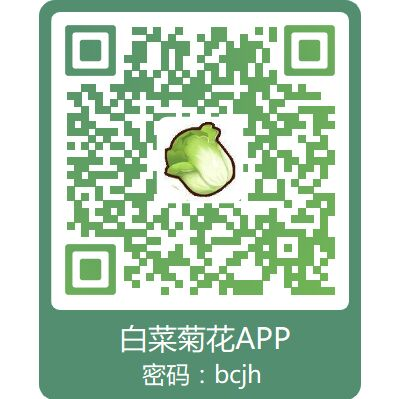
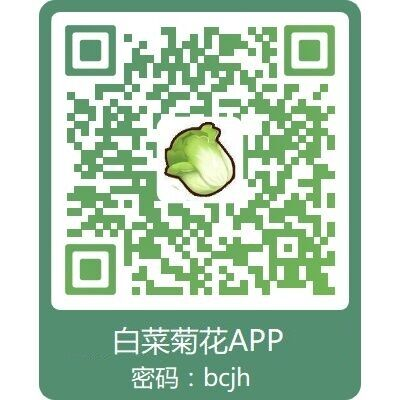
更新白菜菊花网址与二维码，小鱼做好DNS解析了不用再分两个了

diff --git a/messageservice/shortcut.go b/messageservice/shortcut.go
@@ -11,12 +11,12 @@ import (
 func GalleryWebsite(c *scheduler.Context) {
 	var msg string
 	foodgame := "https://foodgame.gitee.io/"
-	bcjh := "https://bcjh.pages.dev/"
-	bcjhxyz := "https://www.bcjh.xyz/"
+	//bcjh := "https://bcjh.pages.dev/"
+	bcjh := "https://www.bcjh.xyz/"
 
 	msg += fmt.Sprintf("L图鉴网: %s\n", foodgame)
-	msg += fmt.Sprintf("白菜菊花手机图鉴网: %s\n", bcjh)
-	msg += fmt.Sprintf("白菜菊花备用网址: %s", bcjhxyz)
+	//msg += fmt.Sprintf("白菜菊花手机图鉴网: %s\n", bcjh)
+	msg += fmt.Sprintf("白菜菊花: %s", bcjh)
 
 	_, _ = c.Reply(msg)
 }
@@ -30,26 +30,26 @@ func TermInfo(c *scheduler.Context) {
 
 // 白菜菊花App下载
 func BCJHAppDownload(c *scheduler.Context) {
-	imgPathPage := config.AppConfig.Resource.Shortcut + "/白菜菊花page.jpg"
-	imgPathXyz := config.AppConfig.Resource.Shortcut + "/白菜菊花xyz.jpg"
+	imgPath := config.AppConfig.Resource.Shortcut + "/白菜菊花.jpg"
+	//imgPathXyz := config.AppConfig.Resource.Shortcut + "/白菜菊花xyz.jpg"
 	var msg string
-	msg += onebot.GetCQImage(imgPathPage, "file")
-	msg += onebot.GetCQImage(imgPathXyz, "file")
+	msg += onebot.GetCQImage(imgPath, "file")
+	//msg += onebot.GetCQImage(imgPathXyz, "file")
 
 	_, _ = c.Reply(msg)
 }
 
 // 计算器，不用第二遍解释
 func Calculator(c *scheduler.Context) {
-	bcjh := "https://bcjh.pages.dev/"
-	bcjhxyz := "https://www.bcjh.xyz/"
-	imgPathPage := config.AppConfig.Resource.Shortcut + "/白菜菊花page.jpg"
-	imgPathXyz := config.AppConfig.Resource.Shortcut + "/白菜菊花xyz.jpg"
+	//bcjh := "https://bcjh.pages.dev/"
+	bcjh := "https://www.bcjh.xyz/"
+	//imgPathPage := config.AppConfig.Resource.Shortcut + "/白菜菊花page.jpg"
+	//imgPathXyz := config.AppConfig.Resource.Shortcut + "/白菜菊花xyz.jpg"
+	imgPath := config.AppConfig.Resource.Shortcut + "/白菜菊花.jpg"
 	var msg string
 	msg += fmt.Sprintf("网页版计算器在白菜菊花图鉴网:%s\n", bcjh)
-	msg += fmt.Sprintf("白菜菊花备用网址: %s\n", bcjhxyz)
-	msg += fmt.Sprintf("安卓用户支持使用白菜菊花app，扫描下图二维码下载 %s %s",
-		onebot.GetCQImage(imgPathPage, "file"),
-		onebot.GetCQImage(imgPathXyz, "file"))
+	msg += fmt.Sprintf("安卓用户支持使用白菜菊花app，扫描下图二维码下载 %s",
+		onebot.GetCQImage(imgPath, "file"))
+	//onebot.GetCQImage(imgPathXyz, "file"))
 	_, _ = c.Reply(msg)
 }
